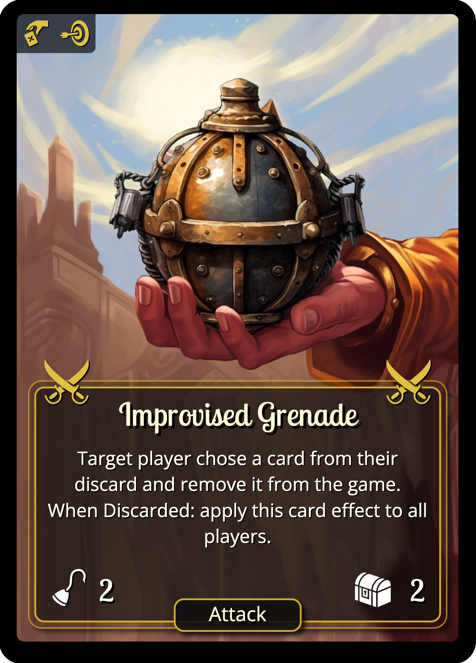
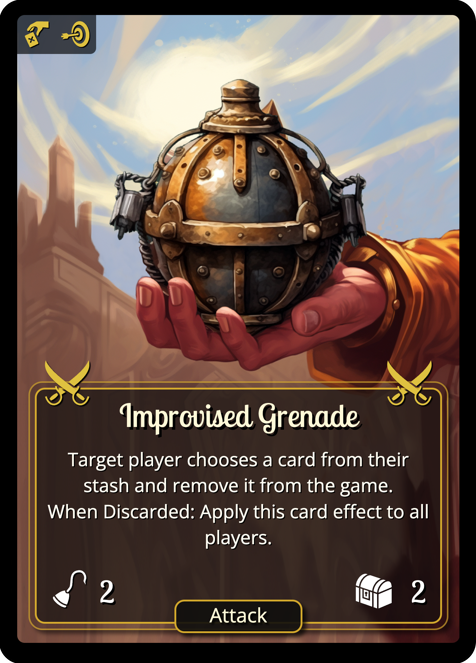
Fix grenade

diff --git a/deckhand/cards.en.js b/deckhand/cards.en.js
@@ -584,7 +584,7 @@ var cards = [
 
 {
     'title': 'Improvised Grenade',
-    'text': 'Target player chose a card from their stash and remove it from the game.<br>When Discarded: Apply this card effect to all players.',
+    'text': 'Target player chooses a card from their stash and remove it from the game.<br>When Discarded: Apply this card effect to all players.',
     'img': 'attacks/grenade.png',
     //  'reduced-font-size': '9.2px',
     'type': 'attack',
